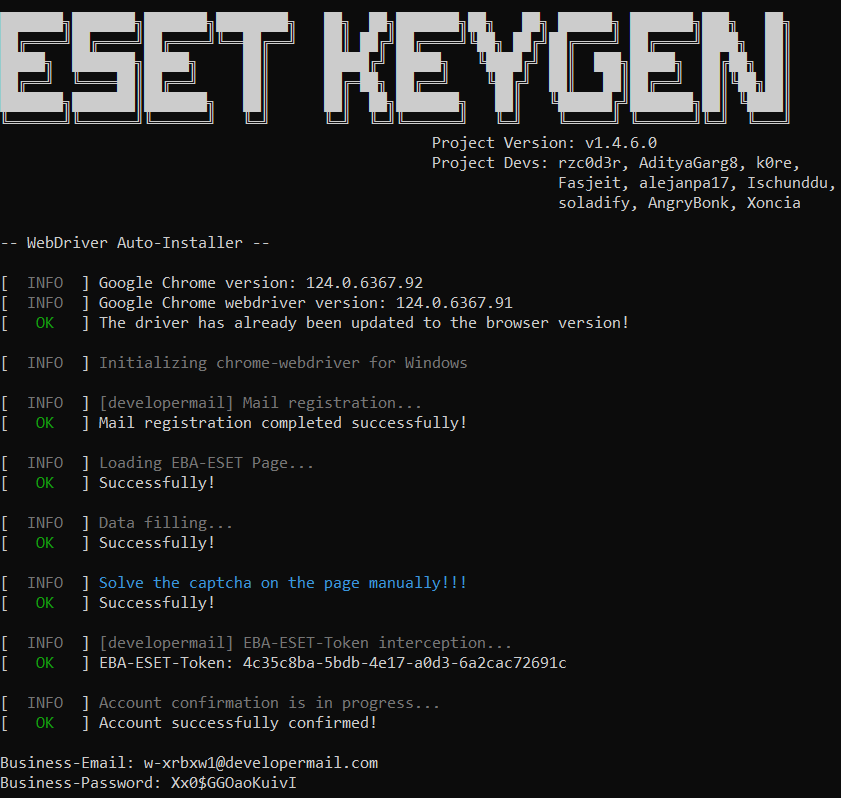
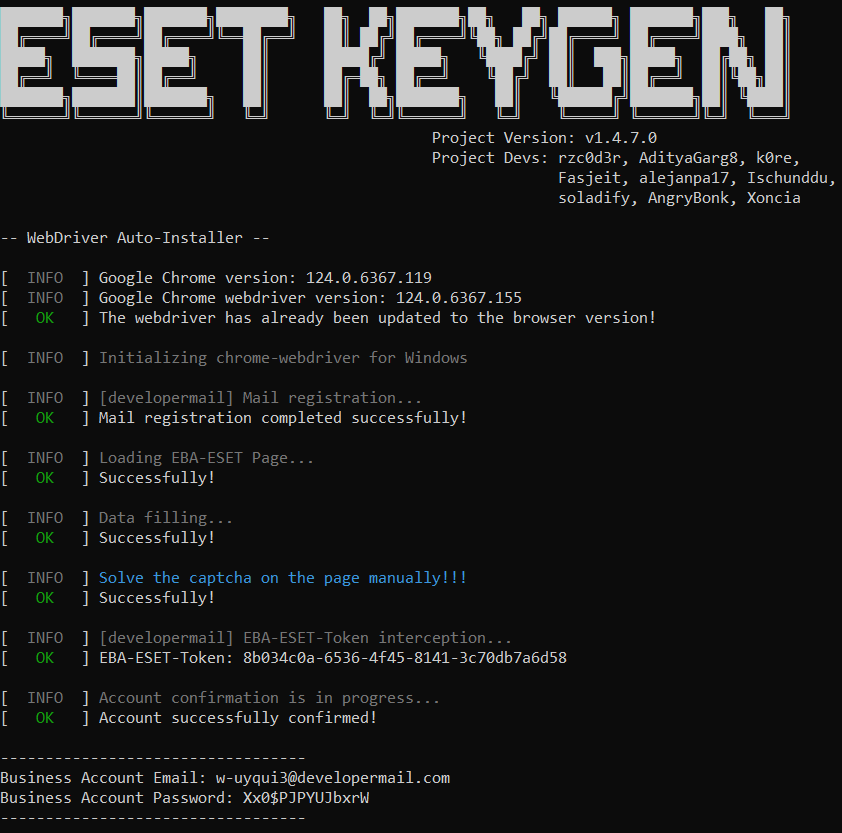
Update to v1.6.7.0
1. Added webdriver auto-update for Mozilla Firefox, finally! This is the first implementation, so bugs are possible!
2. Fixed a typo in 'Initializing {browser_name}-webdriver for {OC}'.
* Previously it always said initializing chrome-webdriver, even if you could specify a different browser.

3. Added support for encrypted email addresses for --custom-email-api.
* Example+example@example.com is now a valid email address.

4. Changed generation output. The account is now displayed when generating keys as well, not just when generating accounts (https://github.com/rzc0d3r/ESET-KeyGen/issues/182)

5. Updated all screenshots to the current version

** I may have changed something else, but I don't remember :)

Changed region(s): [[0.0, 0.2707, 0.7729, 0.9925], [0.0, 0.0, 0.9893, 0.2707]]

diff --git a/main.py b/main.py
@@ -9,6 +9,7 @@ import datetime
 import argparse
 import requests
 import zipfile
+import tarfile
 import shutil
 import random
 import string
@@ -29,7 +30,7 @@ LOGO = """
 ██╔══╝  ╚════██║██╔══╝     ██║      ██╔═██╗ ██╔══╝    ╚██╔╝  ██║   ██║██╔══╝  ██║╚██╗██║   
 ███████╗███████║███████╗   ██║      ██║  ██╗███████╗   ██║   ╚██████╔╝███████╗██║ ╚████║   
 ╚══════╝╚══════╝╚══════╝   ╚═╝      ╚═╝  ╚═╝╚══════╝   ╚═╝    ╚═════╝ ╚══════╝╚═╝  ╚═══╝                                                                      
-                                                Project Version: v1.4.6.0
+                                                Project Version: v1.4.7.0
                                                 Project Devs: rzc0d3r, AdityaGarg8, k0re,
                                                               Fasjeit, alejanpa17, Ischunddu,
                                                               soladify, AngryBonk, Xoncia
@@ -402,11 +403,11 @@ class SharedTools(object):
     def initSeleniumWebDriver(browser_name: str, webdriver_path = None, browser_path = '', headless=True):
         if os.name == 'posix': # For Linux
             if sys.platform.startswith('linux'):
-                console_log('Initializing chrome-webdriver for Linux', INFO)
+                console_log(f'Initializing {browser_name}-webdriver for Linux', INFO)
             elif sys.platform == "darwin":
-                console_log('Initializing chrome-webdriver for macOS', INFO)
+                console_log(f'Initializing {browser_name}-webdriver for macOS', INFO)
         elif os.name == 'nt':
-            console_log('Initializing chrome-webdriver for Windows', INFO)
+            console_log(f'Initializing {browser_name}-webdriver for Windows', INFO)
         driver_options = None
         driver = None
         if browser_name.lower() == 'chrome':
@@ -528,8 +529,8 @@ class SharedTools(object):
         raise RuntimeError('Token retrieval error!!!')
 
 class WebDriverInstaller(object):
-    def __init__(self):
-        self.platform = ['', []]
+    def __init__(self, for_firefox=False):
+        self.platform = ['', []] # [OC name, [webdriver architectures]]
         if sys.platform.startswith('win'):
             self.platform[0] = 'win'
             if sys.maxsize > 2**32:
@@ -544,9 +545,11 @@ class WebDriverInstaller(object):
                 self.platform[1].append('linux32')
         elif sys.platform == "darwin":
             self.platform[0] = 'mac'
-            if processor() == "arm":
+            if for_firefox:
+                self.platform[1] = ['macos']
+            elif platform.processor() == "arm":
                 self.platform[1] = ['mac-arm64', 'mac_arm64', 'mac64_m1']
-            elif processor() == "i386":
+            elif platform.processor() == "i386":
                 self.platform[1] = ['mac64', 'mac-x64']
         if self.platform[0] == '' or self.platform[1] == []:
             raise RuntimeError('WebDriverInstaller: impossible to define the system!')
@@ -610,29 +613,57 @@ class WebDriverInstaller(object):
                     return current_driver_url
             raise RuntimeError('WebDriverInstaller: the required chrome driver was not found!')
     
-    def download_webdriver(self, path: str, url=None, edge=False): # Only for Google Chrome (default) and Microsoft Edge (edge=True)
+    def get_latest_geckodriver_download_url(self, only_version=False):
+        r = requests.get("https://api.github.com/repos/mozilla/geckodriver/releases/latest")
+        r_json = r.json()
+        # note for: r_json['assets'][::-1]
+        # in the initialization of WebDriverInstaller for 64bit is also suitable for 32bit, but
+        # in the list of assets first go 32bit and it comes out that for 64bit gives a 32bit release, turning the list fixes it
+        if only_version:
+            return r_json['name']
+        for asset in r_json['assets'][::-1]:
+            if asset['name'].find('asc') == -1: # ignoring GPG Keys
+                asset_arch = asset['name'].split('-', 2)[-1].split('.')[0] # package architecture parsing; geckodriver-v0.34.0-win32.zip -> ['geckodriver', 'v0.34.0', 'win32.zip'] -> ['win32', 'zip'] -> win32
+                if asset_arch in self.platform[1]:
+                    return asset['browser_download_url']
+
+    def download_webdriver(self, path='.', url=None, edge=False, firefox=False):
+        file_extension = '.zip'
         if url is None:
             if edge:
                 url = self.get_edgedriver_download_url()
+            elif firefox:
+                url = self.get_latest_geckodriver_download_url()
             else:
                 url = self.get_chromedriver_download_url()
-        zip_path = path.replace('\\', '/')+'/data.zip'
+        if url.find('.tar.gz') != -1:
+            file_extension = '.tar.gz'
+        # downloading
+        zip_path = path.replace('\\', '/')+'/data'+file_extension
         f = open(zip_path, 'wb')
         f.write(requests.get(url).content)
         f.close()
         if edge:
             webdriver_name = 'msedgedriver' # macOS, linux
+        elif firefox:
+            webdriver_name = 'geckodriver' # macOS, linux
         else:
             webdriver_name = 'chromedriver' # macOS, linux
         if self.platform[0].startswith('win'): # windows
             webdriver_name += '.exe'
-        with zipfile.ZipFile(zip_path, 'r') as zip:
-            webdriver_zip_path = ''
-            if not edge:
-                if len(zip.namelist()[0].split('/')) > 1: # for new Google Chrome webdriver zip format 
-                    webdriver_zip_path = zip.namelist()[0].split('/')[0]+'/'
-            with open(path+'/'+webdriver_name, 'wb') as f:
-                f.write(zip.read(webdriver_zip_path+webdriver_name))
+        # extracting
+        if file_extension == '.zip':
+            with zipfile.ZipFile(zip_path, 'r') as zip:
+                webdriver_zip_path = ''
+                if not edge and not firefox: # Google Chrome
+                    if len(zip.namelist()[0].split('/')) > 1: # for new Google Chrome webdriver zip format 
+                        webdriver_zip_path = zip.namelist()[0].split('/')[0]+'/'
+                with open(path+'/'+webdriver_name, 'wb') as f: # for Google Chrome and Microsoft Edge
+                    f.write(zip.read(webdriver_zip_path+webdriver_name))
+        elif file_extension == '.tar.gz':
+            tar = tarfile.open(zip_path)
+            tar.extractall()
+            tar.close()
         try:
             os.remove(zip_path)
         except:
@@ -661,53 +692,68 @@ class WebDriverInstaller(object):
                 return current_driver_url
         raise RuntimeError('WebDriverInstaller: the required chrome driver was not found!')
             
-    def webdriver_installer_menu(self, edge=False): # auto updating or installing google chrome or microsoft edge webdrivers
+    def webdriver_installer_menu(self, edge=False, firefox=False): # auto updating or installing webdrivers
         if edge:
             browser_name = 'Microsoft Edge'
+        elif firefox:
+            browser_name = 'Mozilla Firefox'
         else:
             browser_name = 'Google Chrome'
         console_log('-- WebDriver Auto-Installer --\n'.format(browser_name))
         if edge:
             browser_version = self.get_edge_version()
+        elif firefox:
+            browser_version = ['Ignored', 'Ignored']
         else:
             browser_version = self.get_chrome_version()
         current_webdriver_version = None
         if edge:
             webdriver_name = 'msedgedriver'
+        elif firefox:
+            webdriver_name = 'geckodriver'
         else:
             webdriver_name = 'chromedriver'
         if self.platform[0] == 'win':
             webdriver_name += '.exe'
+        webdriver_path = None
         if os.path.exists(webdriver_name):
             os.chmod(webdriver_name, 0o777)
             out = subprocess.check_output([os.path.join(os.getcwd(), webdriver_name), "--version"], stderr=subprocess.PIPE)
             if out is not None:
                 if edge:
                     current_webdriver_version = out.decode("utf-8").split(' ')[3]
-                else:
+                else: 
                     current_webdriver_version = out.decode("utf-8").split(' ')[1]
         console_log('{0} version: {1}'.format(browser_name, browser_version[0]), INFO, False)
         console_log('{0} webdriver version: {1}'.format(browser_name, current_webdriver_version), INFO, False)
-        webdriver_path = None
+        if firefox:
+            latest_geckodriver_version = self.get_latest_geckodriver_download_url(True)
+            if current_webdriver_version == latest_geckodriver_version:
+                console_log('The webdriver has already been updated to the latest version!\n', OK)
+                return os.path.join(os.getcwd(), webdriver_name)
+            elif current_webdriver_version is not None:
+                console_log(f'Updating the webdriver from {current_webdriver_version} to {latest_geckodriver_version} version...', INFO)
         if current_webdriver_version is None:
             console_log('{0} webdriver not detected, download attempt...'.format(browser_name), INFO)
-        elif current_webdriver_version.split('.')[0] != browser_version[1]: # major version match
+        elif current_webdriver_version.split('.')[0] != browser_version[1] and not firefox: # major version match
             console_log('{0} webdriver version doesn\'t match version of the installed {1}, trying to update...'.format(browser_name, browser_name), ERROR)
-        if current_webdriver_version is None or current_webdriver_version.split('.')[0] != browser_version[1]:
+        if (current_webdriver_version is None or current_webdriver_version.split('.')[0] != browser_version[1]) or firefox:
             if edge:
                 driver_url = self.get_edgedriver_download_url()
+            elif firefox:
+                driver_url = self.get_latest_geckodriver_download_url()
             else:
                 driver_url = self.get_chromedriver_download_url()
             if driver_url is not None:
                 console_log('\nFound a suitable version for your system!', OK)
                 console_log('Downloading...', INFO)
-                if self.download_webdriver('.', driver_url, edge):
+                if self.download_webdriver('.', driver_url, edge, firefox):
                     console_log('{0} webdriver was successfully downloaded and unzipped!\n'.format(browser_name), OK)
                     webdriver_path = os.path.join(os.getcwd(), webdriver_name)
                 else:
                     console_log('Error downloading or unpacking!\n', ERROR)
         else:
-            console_log('The driver has already been updated to the browser version!\n', OK)
+            console_log('The webdriver has already been updated to the browser version!\n', OK)
             webdriver_path = os.path.join(os.getcwd(), webdriver_name)
         return webdriver_path
 
@@ -1025,8 +1071,8 @@ if __name__ == '__main__':
             browser_name = 'firefox'
         if args['edge']:
             browser_name = 'edge'
-        if not args['skip_webdriver_menu'] and browser_name != 'firefox': # updating or installing microsoft edge webdriver
-            webdriver_path = webdriver_installer.webdriver_installer_menu(args['edge'])
+        if not args['skip_webdriver_menu']: # updating or installing webdriver
+            webdriver_path = webdriver_installer.webdriver_installer_menu(args['edge'], args['firefox'])
             if webdriver_path is not None:
                 os.chmod(webdriver_path, 0o777)
         if not args['only_update']:
@@ -1056,7 +1102,7 @@ if __name__ == '__main__':
             while True:
                 email = input(f'\n[  {Fore.YELLOW}INPT{Fore.RESET}  ] {Fore.CYAN}Enter the email address you have access to: {Fore.RESET}').strip()
                 try:
-                    matched_email = re.match(r"[-a-z0-9]+@[a-z]+\.[a-z]{2,3}", email).group()
+                    matched_email = re.match(r"[-a-z0-9+]+@[a-z]+\.[a-z]{2,3}", email).group()
                     if matched_email == email:
                         email_obj.email = matched_email
                         console_log('Mail has the correct syntax!', OK)
@@ -1072,29 +1118,64 @@ if __name__ == '__main__':
             EsetReg = EsetRegister(email_obj, eset_password, driver)
             EsetReg.createAccount()
             EsetReg.confirmAccount()
-            output_line = f'\nEmail: {email_obj.email}\nPassword: {eset_password}\n'
+            output_line = '\n'.join([
+                    '',
+                    '----------------------------------',
+                    f'Account Email: {email_obj.email}',
+                    f'Account Password: {eset_password}',
+                    '----------------------------------',
+                    ''
+            ])        
             output_filename = 'ESET ACCOUNTS.txt'
             if args['key']:
                 output_filename = 'ESET KEYS.txt'
                 EsetKeyG = EsetKeygen(email_obj, driver)
                 EsetKeyG.sendRequestForKey()
                 license_name, license_key, license_out_date = EsetKeyG.getLicenseData()
-                output_line = f'\nLicense Name: {license_name}\nLicense Key: {license_key}\nLicense Out Date: {license_out_date}\n'
-        
+                output_line = '\n'.join([
+                    '',
+                    '----------------------------------',
+                    f'Account Email: {email_obj.email}',
+                    f'Account Password: {eset_password}',
+                    '',
+                    f'License Name: {license_name}',
+                    f'License Key: {license_key}',
+                    f'License Out Date: {license_out_date}',
+                    '----------------------------------',
+                    ''
+                ])
+                
         # new generator
         elif args['business_account'] or args['business_key']:
             EsetBusinessReg = EsetBusinessRegister(email_obj, eset_password, driver)
             EsetBusinessReg.createAccount()
             EsetBusinessReg.confirmAccount()
-            output_line = f'\nBusiness-Email: {email_obj.email}\nBusiness-Password: {eset_password}\n'
+            output_line = '\n'.join([
+                    '',
+                    '----------------------------------',
+                    f'Business Account Email: {email_obj.email}',
+                    f'Business Account Password: {eset_password}',
+                    '----------------------------------',
+                    ''
+            ])    
             output_filename = 'ESET ACCOUNTS.txt'
             if args['business_key']:
                 output_filename = 'ESET KEYS.txt'
                 EsetBusinessKeyG = EsetBusinessKeygen(email_obj, eset_password, driver)
                 EsetBusinessKeyG.sendRequestForKey()
                 license_name, license_key, license_out_date = EsetBusinessKeyG.getLicenseData()
-                output_line = f'\nLicense Name: {license_name}\nLicense Key: {license_key}\nLicense Out Date: {license_out_date}\n'
-        
+                output_line = '\n'.join([
+                    '',
+                    '----------------------------------',
+                    f'Business Account Email: {email_obj.email}',
+                    f'Business Account Password: {eset_password}',
+                    '',
+                    f'License Name: {license_name}',
+                    f'License Key: {license_key}',
+                    f'License Out Date: {license_out_date}',
+                    '----------------------------------',
+                    ''
+                ])        
         # end
         console_log(output_line)
         date = datetime.datetime.now()

diff --git a/wiki/AccountGenerator.md b/wiki/AccountGenerator.md
@@ -22,7 +22,7 @@
   python main.py --chrome --account
   ```
   ```
-  ESET-KeyGen_v1.4.6.0_win64.exe --chrome --account
+  ESET-KeyGen_v1.4.7.0_win64.exe --chrome --account
   ```
   > File name is unique for each version! Do not copy the above command. This is an example!
 
@@ -40,7 +40,7 @@
   python main.py --chrome --business-account
   ```
   ```
-  ESET-KeyGen_v1.4.6.0_win64.exe --chrome --business-account
+  ESET-KeyGen_v1.4.7.0_win64.exe --chrome --business-account
   ```
   > File name is unique for each version! Do not copy the above command. This is an example!
   
@@ -64,7 +64,7 @@
   python main.py --chrome --account --custom-email-api
   ```
   ```
-  ESET-KeyGen_v1.4.6.0_win64.exe --chrome --account --custom-email-api
+  ESET-KeyGen_v1.4.7.0_win64.exe --chrome --account --custom-email-api
   ```
   > File name is unique for each version! Do not copy the above command. This is an example!
 
@@ -95,7 +95,7 @@
   python main.py --chrome --business-account --custom-email-api
   ```
   ```
-  ESET-KeyGen_v1.4.6.0_win64.exe --chrome --business-account --custom-email-api
+  ESET-KeyGen_v1.4.7.0_win64.exe --chrome --business-account --custom-email-api
   ```
   > File name is unique for each version! Do not copy the above command. This is an example!
 

diff --git a/wiki/KeyGenerator.md b/wiki/KeyGenerator.md
@@ -22,7 +22,7 @@
   python main.py --chrome --key
   ```
   ```
-  ESET-KeyGen_v1.4.6.0_win64.exe --chrome --key
+  ESET-KeyGen_v1.4.7.0_win64.exe --chrome --key
   ```
   > File name is unique for each version! Do not copy the above command. This is an example!
 
@@ -40,7 +40,7 @@
   python main.py --chrome --business-key
   ```
   ```
-  ESET-KeyGen_v1.4.6.0_win64.exe --chrome --business-key
+  ESET-KeyGen_v1.4.7.0_win64.exe --chrome --business-key
   ```
   > File name is unique for each version! Do not copy the above command. This is an example!
 
@@ -64,7 +64,7 @@
   python main.py --chrome --key --custom-email-api
   ```
   ```
-  ESET-KeyGen_v1.4.6.0_win64.exe --chrome --key --custom-email-api
+  ESET-KeyGen_v1.4.7.0_win64.exe --chrome --key --custom-email-api
   ```
   > File name is unique for each version! Do not copy the above command. This is an example!
 
@@ -95,7 +95,7 @@
   python main.py --chrome --business-key --custom-email-api
   ```
   ```
-  ESET-KeyGen_v1.4.6.0_win64.exe --chrome --business-key --custom-email-api
+  ESET-KeyGen_v1.4.7.0_win64.exe --chrome --business-key --custom-email-api
   ```
   > File name is unique for each version! Do not copy the above command. This is an example!
 

diff --git a/README.md b/README.md
@@ -1,5 +1,5 @@
 # ESET-KeyGen
-ESET-KeyGen - Trial-Key & Account generator for ESET Antivirus (last test was on 08.05.2024 at 11:15 UTC+3)
+ESET-KeyGen - Trial-Key & Account generator for ESET Antivirus (last test was on 08.05.2024 at 19:30 UTC+3)
 
 ![](img/project_preview.png)
 
@@ -29,7 +29,7 @@ It will ask the number of accounts, keys to be generated.
 2. [How to install Chrome on Linux](https://support.google.com/chrome/answer/95346?hl=en&co=GENIE.Platform%3DDesktop#zippy=%2Clinux)
 3. [How to install Chrome on Mac](https://support.google.com/chrome/answer/95346?hl=en&co=GENIE.Platform%3DDesktop#zippy=%2Clinux%2Cmac)
 
-#### Mozilla Firefox (supported, but without auto-update)
+#### Mozilla Firefox (fully supports)
 1. [How to install Firefox on Windows](https://support.mozilla.org/en-US/kb/how-install-firefox-windows)
 2. [How to Install Firefox on Linux](https://support.mozilla.org/en-US/kb/install-firefox-linux)
 3. [How to Install Firefox on Mac](https://support.mozilla.org/en-US/kb/how-download-and-install-firefox-mac)
